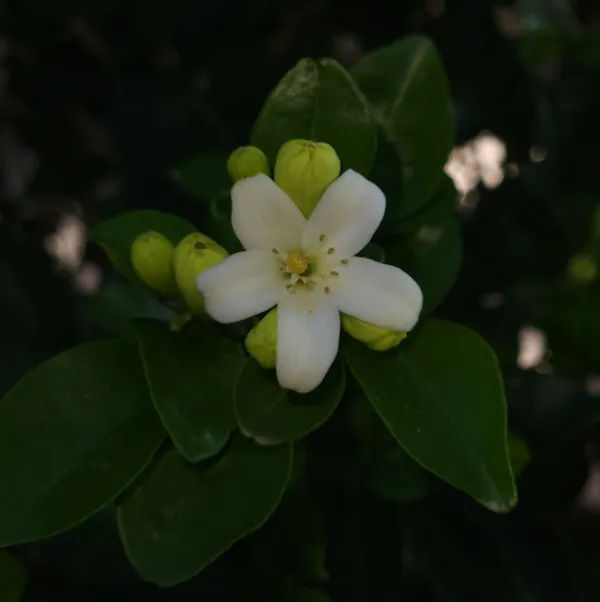
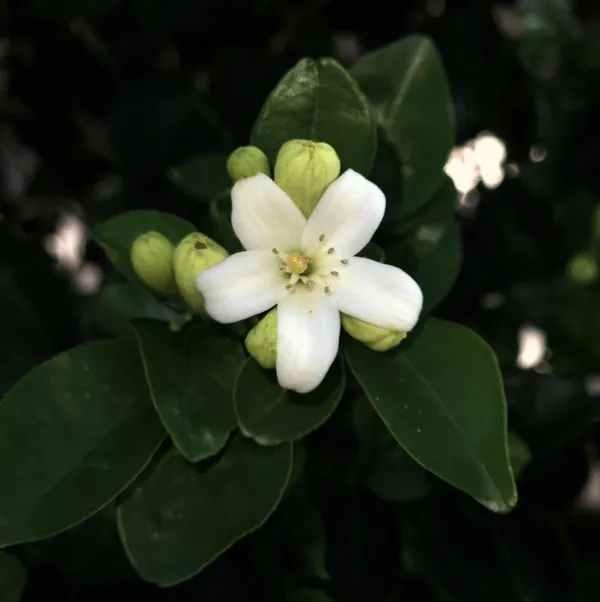
2026.07.12

diff --git a/games.html b/games.html
@@ -76,7 +76,7 @@
                 };
             </script>
 
-<!-- header end -->
+            <!-- header end -->
 
             <h2 id="section1">GAMES</h2>
             <p>
@@ -954,6 +954,25 @@
                         really enjoyed my time with it, as is apparent from how long I spent playing. Obviously this
                         took months as I do not have as much free time as others. For the record I played as a samurai
                         and I used the starting gear through the whole game.
+                    </p>
+                </div>
+
+                <div class="grid-item parent reviewed f2022">
+                    <div id="kenshi_game_review" class="floated">
+                        <img src="images\games\kenshi.webp" />
+                    </div>
+                    <p> <strong>Kenshi</strong><br /><br />
+                        You start your saga as a broke nobody in a desert town. You run around trying to collect some
+                        resourses to sell, or maybe to decide to try to steal something. You get beat to within an inch
+                        of death but you live and get stronger. You go out in search of opportunity but run into a
+                        roving band of slavers instead and run for your life. You improve at running. It's been an while
+                        and now you have some meader equipment and maybe a friend. After roaming the desert you find a
+                        nice spot to settle on and build yourself some huts and tools and maybe a wall, but then you get
+                        raided and barely survive. The world continue to kick you and you keep just barely surviving and
+                        getting every so slightly stronger every time. This is Kenshi. It's not a turn based game and
+                        yet it has that "just one more turn" feeling that keeps dragging you through the arid landscape
+                        in search of the next big hustle. Maybe you'll smuggle drugs, maybe you'll build a strong
+                        settlement, maybe you'll get your limbs cut off.
                     </p>
                 </div>
 
@@ -2029,15 +2048,6 @@
                     </p>
                 </div>
 
-                <div class="grid-item parent thinking funsorted">
-                    <div id="kenshi_game_review" class="floated">
-                        <img src="images\games\kenshi.webp" />
-                    </div>
-                    <p> <strong>Kenshi</strong><br /><br />
-                        Thinking...
-                    </p>
-                </div>
-
                 <div class="grid-item parent reviewed funsorted">
                     <div id="kerbal_space_program_game_review" class="floated">
                         <img src="images\games\kerbal_space_program.webp" />
@@ -2418,7 +2428,7 @@
             </script>
 
             <!-- footer start -->
-            
+
             <hr />
 
             <p align="center">© 2024-2026 Craft Beetle | All rights reserved</p>

diff --git a/index.html b/index.html
@@ -102,6 +102,36 @@
                 <h2>What's New?</h2>
                 <h3>2026</h3>
                 <details open>
+                    <summary>2026.07.12</summary>
+                    <h4>Ecology</h4>
+                    <li>
+                        Added - 26.07.11
+                    </li>
+
+                    <h4>Games</h4>
+                    <li>
+                        Reviewed - Kenshi
+                    </li>
+
+                    <h4>Micro-Blog</h4>
+                    <li>
+                        Added - 26.07.10
+                    </li>
+
+                    <h4>Links</h4>
+                    <li>
+                        Added - World Inequality Database
+                    </li>
+                    <li>
+                        Added - A Predatory State
+                    </li>
+
+                    <br />
+                    <hr />
+                    <br />
+                </details>
+
+                <details>
                     <summary>2026.07.05</summary>
                     <h4>Ecology</h4>
                     <li>

diff --git a/ecology.html b/ecology.html
@@ -115,7 +115,15 @@
                     <h3>2026</h3>
                 </div>
 
-                <div class="grid-item new plantae f2026">
+                <div class="grid-item new animalia f2026">
+                    <img src="/images/ecology/20260711_181130.webp" alt="" />
+                    <div class="taxonomy"></div>
+                    <p>The empty husk of a cicada.<br /><br />
+                        2026.07.11
+                    </p>
+                </div>
+
+                <div class="grid-item plantae f2026">
                     <img src="/images/ecology/20260628_092010.webp" alt="" />
                     <div class="taxonomy"></div>
                     <p>The jasmine bushes are blooming again and the summer breeze caries the sent far and wide.<br /><br />

diff --git a/micro-blog.html b/micro-blog.html
@@ -85,6 +85,15 @@
                 such a thing.
             </p>
 
+            <div id="micro-blog_26_07_10" class="micro-blog">
+                <strong>@craftbeetle</strong>
+                <p>
+                    I've been sleeping on RedBull.
+                </p>
+
+                <p align="right">26.07.10</p>
+            </div>
+
             <div id="micro-blog_26_07_05" class="micro-blog">
                 <strong>@craftbeetle</strong>
                 <p>

diff --git a/links.html b/links.html
@@ -378,6 +378,10 @@
                 <a href="https://thesameerproject.org/" target="_blank">
                     <img src="images/branding/the_sameer_project_88x31.png" />
                 </a>
+
+                <a href="https://predatorystate.org/" target="_blank">
+                    <img src="images/branding/a_predatory_state_88x31.png" />
+                </a>
             </div>
 
             <h3>Socialism and Anti-Imperialism</h3>
@@ -544,6 +548,10 @@
 
                 <a href="https://shariati.com/bio.html" target="_blank">
                     <img src="images/branding/ali_shariati_88x31.png" />
+                </a>
+
+                <a href="https://wid.world/" target="_blank">
+                    <img src="images/branding/world_inequality_database_88x31.png" />
                 </a>
             </div>
 